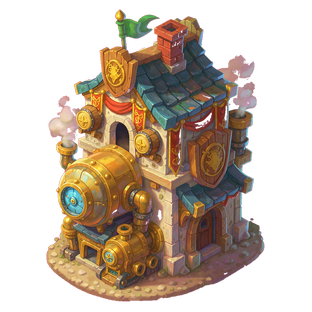
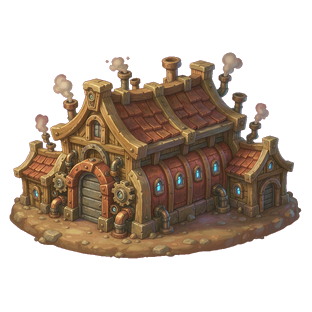
feat(art): 兵营V6暗色与工厂形态修订（幽暗墓地/红黑哥特/一层式蒸汽工厂，抠图脚本支持深紫底）

diff --git a/tools/expand-barracks-v6-prompts.py b/tools/expand-barracks-v6-prompts.py
@@ -1,0 +1,132 @@
+#!/usr/bin/env python3
+# -*- coding: utf-8 -*-
+"""展开兵营 V6 的完整 prompt（3 张）。
+
+用户 2026-11-26 追加指令：
+  31 死灵法师 -> 墓地还不够阴深（要更幽暗，但保留墓地形态）
+  32 吸血鬼   -> 去除白色，改为红黑建筑
+  33 蒸汽坦克 -> 改为一层式蒸汽朋克工厂表现
+
+画风策略调整：V4/V5 的"提亮暗部"不再适用，改用
+「饱和暗色 + 彩色轮廓光 + 发光点缀」，保证阴深但可读，
+同时保留圆润厚涂 / 无黑线稿 / 卡通质感（不回到早期线稿淡彩脏黑）。
+风格锚点从 V2 方案文档逐字抽取。
+用法: python3 tools/expand-barracks-v6-prompts.py
+输出: .workbuddy/art-staging/western-redraw-v6/prompts.json
+"""
+import json
+import re
+from pathlib import Path
+
+ROOT = Path(__file__).resolve().parent.parent
+DOC = (ROOT / "docs/art/ART-BARRACKS-V2-NONBUILDING-REDRAW.md").read_text(encoding="utf-8")
+
+
+def block(after):
+    i = DOC.index(after)
+    return re.search(r"```\n(.*?)\n```", DOC[i:], re.S).group(1).strip()
+
+
+SEG1 = block("### 段 1 ·")
+SEG4 = block("### 段 4")
+NEG_BASE = block("### Negative prompt（B/C/D 档")
+NEG_AB = block("### Negative prompt · A/B 档")
+
+# V6 画风锚：暗色角色专用——饱和暗色但可读，禁止纯黑糊与黑描边
+STYLE_DARK = (
+    " CRITICAL STYLE MATCH — this must look like the SAME asset family as the rest of the barracks: "
+    "painterly thick-rounded brushwork, plump soft forms, smooth color transitions, chunky simplified shapes, "
+    "clean glossy candy-like highlights. NO black ink outlines, NO line art, NO sketch lines, NO flat cel shading, "
+    "NO black contour strokes around shapes, NO fine detailed linework. "
+    "This is a deliberately DARK and moody building, but darkness must come from RICH SATURATED COLORS "
+    "(deep violet, indigo, dark teal, crimson, oxblood, dark burgundy), NEVER flat pure black, NEVER a muddy "
+    "black mass. Keep every structure readable through colored rim light, glowing accents and a clear value "
+    "hierarchy: dark walls, mid-tone trims, BRIGHT magical or warm light sources. "
+    "Add cool glowing details (emerald green, ghostly blue, crimson) as focal points. "
+    "Keep it soft, round and cartoon-like even when dark."
+)
+
+BUILD_FRAME = (
+    "Square 1:1 canvas, building centered slightly low, full building including the elliptical stone base "
+    "fills about 82 percent of canvas width, 8 to 10 percent clean margin on all sides, no cropping, no "
+    "perspective drift, flat even framing. The single signature object stays fully inside the frame and "
+    "is never hidden by flags, banners or roof decorations."
+)
+
+NEG_EXTRA = (
+    "black outlines, line art, ink sketch, black contour, harsh dark edges, cel shading, flat shading, "
+    "pure black shadows, muddy dark mass, grayscale, monochrome, white walls, cream walls, "
+    "realistic texture, fine linework"
+)
+
+# name, BUILDING, MAT, ACC, SIG, PROP, SIGPCT, SIGW, EXTRA
+DATA = {
+    "31": (
+        "死灵法师-幽暗墓地(阴深化)",
+        "a deeply shadowed gothic necromancer GRAVEYARD landmark: a cluster of crooked small pointed chapels "
+        "and broken arches surrounded by a dense field of tilted tombstones and grave markers, ornate dark iron "
+        "fence around the cemetery, a skull carved into the central arch, low ground fog curling between the "
+        "graves, a green magical flame glowing above the tallest spire",
+        "dark violet stone, moss-covered grey stone and black iron fence",
+        "deep indigo and emerald green glow",
+        "the dense field of tilted tombstones behind a dark iron fence with an emerald green flame spire above",
+        "ghostly blue wisps, skull carvings, crooked crosses and ground fog", 30, 34,
+        " The graveyard must feel GLOOMY and EERIE: dark violet and mossy grey stone, heavy indigo shadows, "
+        "cold green and ghost-blue magical light. Walls may be dark but MUST stay saturated violet or indigo "
+        "and readable — never pure black. Keep the many visible tombstones and the iron fence. "
+        "NO white walls, NO cream stone, NO bright sunny stone."),
+    "32": (
+        "吸血鬼-红黑哥特城堡(去白改色)",
+        "a gothic vampire castle with deep oxblood red and dark burgundy walls, black obsidian roofs and "
+        "thin black iron spires, pointed arch windows glowing hot crimson from within, a small black bat "
+        "perched on the tallest tower, jagged dark stone base",
+        "oxblood red stone, black obsidian roof and black iron",
+        "crimson red and dark violet",
+        "the tallest black iron gothic spire with a small bat silhouetted against red window glow",
+        "glowing crimson arched windows, black iron fences and rose-red ornaments", 35, 18,
+        " ABSOLUTELY NO white, NO cream, NO pale rose walls — the castle must be RED AND BLACK: "
+        "oxblood / burgundy walls with black roofs and black ironwork. Crimson glowing windows keep it readable. "
+        "Colors stay rich and saturated, never a flat black mass."),
+    "33": (
+        "蒸汽坦克-一层式蒸汽朋克工厂",
+        "a SINGLE-STOREY steampunk factory building: a wide low industrial workshop hall with a broad riveted "
+        "red-copper and brass facade, a large rolling factory door, exposed gears and piping on the walls, "
+        "a cluster of short chimneys puffing soft white steam, glowing blue pressure gauges and small arched "
+        "industrial windows, standing on an elliptical stone display base",
+        "red copper, polished brass, iron and timber",
+        "copper red and sky blue gauge glow",
+        "the wide riveted copper-and-brass factory facade with a huge rolling door and exposed gears",
+        "steam puffs, pressure gauges, pipes and short smokestacks", 38, 34,
+        " This must be a ONE-STOREY factory hall: wide, low and horizontally spread, clearly an industrial "
+        "workshop building. NO second floor, NO upper tower, NO tall multi-storey structure, NO cottage roof, "
+        "NO residential windows and NO ordinary house door. Keep it steampunk with gears, rivets, copper, "
+        "brass, pipes, gauges and steam."),
+}
+
+
+def main():
+    out = {}
+    for n, (name, subj, mat, acc, sig, prop, pct, w, extra) in DATA.items():
+        body = (
+            "A {BUILDING} for a fantasy unit barracks. Constructed from {MAT}, with {ACC} as the dominant "
+            "accent color, echoing the unit character art. One dominant oversized signature object dominates "
+            "the scene: {SIG}. This single signature object must occupy at least {SIGPCT} percent of the building "
+            "height and at least {SIGW} percent of the canvas width; it must read clearly when scaled down to "
+            "10 percent. All other details, including {PROP}, are secondary and quieter. The architecture must "
+            "clearly express this unit role and be unmistakably Western fantasy medieval, not Eastern."
+        ).format(BUILDING=subj, MAT=mat, ACC=acc, SIG=sig, PROP=prop, SIGPCT=pct, SIGW=w)
+        neg = NEG_BASE + ", " + NEG_AB + ", " + NEG_EXTRA
+        prompt = (SEG1 + "\n\n" + body + extra + STYLE_DARK + "\n\n" + BUILD_FRAME +
+                  "\n\n" + SEG4 + "\n\nNegative prompt: " + neg)
+        out[n] = {"name": name, "prompt": prompt}
+
+    dst = ROOT / ".workbuddy/art-staging/western-redraw-v6/prompts.json"
+    dst.parent.mkdir(parents=True, exist_ok=True)
+    dst.write_text(json.dumps(out, ensure_ascii=False, indent=2), encoding="utf-8")
+    print(f"wrote {len(out)} prompts -> {dst}")
+    for n, v in out.items():
+        print(n, v["name"], len(v["prompt"]))
+
+
+if __name__ == "__main__":
+    main()

diff --git a/tools/remove-bg-artgen-magenta.py b/tools/remove-bg-artgen-magenta.py
@@ -20,10 +20,21 @@ from collections import deque
 from PIL import Image, ImageFilter
 
 
-def is_magenta_bg(r, g, b, bg, tol):
-    """暗玫红背景：接近采样色，且满足红显著高于绿的色相约束。"""
+def is_magenta_bg(r, g, b, bg, tol, mode='magenta'):
+    """背景判定。
+
+    magenta: 暗玫红底 (约 142,54,73)，红显著高于绿。
+    purple:  深紫底 (约 65,32,75)，蓝略高于红、明显高于绿；
+             用于红黑建筑出图（ImageGen 会把纯品红提示出成深紫底）。
+             主体暗红墙 r>b、黑色屋顶三通道都低，都不会被误判。
+    """
     near = abs(r - bg[0]) < tol and abs(g - bg[1]) < tol and abs(b - bg[2]) < tol
-    magenta_hue = r > g + 45 and r > 100 and b > g
+    if mode == 'purple':
+        purple_hue = b > r + 6 and b > g + 24 and b > 45
+        return near and purple_hue
+    # r 下限相对采样背景：暗玫红可能深到 r≈100（如阴深墓地批次），
+    # 固定 r>100 会把这类背景卡住导致 flood fill 扩散失败。
+    magenta_hue = r > g + 45 and r > bg[0] - 40 and b > g
     return near and magenta_hue
 
 
@@ -38,7 +49,7 @@ def is_watermark(r, g, b, bg):
     return light or bright
 
 
-def remove_bg(src, dst, target=312, tol=24, closed=False):
+def remove_bg(src, dst, target=312, tol=24, closed=False, mode='magenta'):
     im = Image.open(src).convert('RGB')
     w, h = im.size
     px = im.load()
@@ -57,7 +68,10 @@ def remove_bg(src, dst, target=312, tol=24, closed=False):
             row = y*w
             for x in range(w):
                 r, g, b = px[x, y]
-                if r > 125 and r - g > 50 and b > g and b > 60:
+                if mode == 'purple':
+                    if b > r + 6 and b > g + 24 and b > 45:
+                        closed_mask[row+x] = 1
+                elif r > 125 and r - g > 50 and b > g and b > 60:
                     closed_mask[row+x] = 1
 
     # 2) 四边 flood fill 连通背景
@@ -66,13 +80,13 @@ def remove_bg(src, dst, target=312, tol=24, closed=False):
     for x in range(w):
         for y in (0, h-1):
             i = y*w+x
-            if not visited[i] and is_magenta_bg(*px[x, y], bg, tol):
+            if not visited[i] and is_magenta_bg(*px[x, y], bg, tol, mode):
                 visited[i] = 1
                 q.append((x, y))
     for y in range(h):
         for x in (0, w-1):
             i = y*w+x
-            if not visited[i] and is_magenta_bg(*px[x, y], bg, tol):
+            if not visited[i] and is_magenta_bg(*px[x, y], bg, tol, mode):
                 visited[i] = 1
                 q.append((x, y))
     while q:
@@ -80,7 +94,7 @@ def remove_bg(src, dst, target=312, tol=24, closed=False):
         for nx, ny in ((x+1, y), (x-1, y), (x, y+1), (x, y-1)):
             if 0 <= nx < w and 0 <= ny < h:
                 i = ny*w+nx
-                if not visited[i] and is_magenta_bg(*px[nx, ny], bg, tol):
+                if not visited[i] and is_magenta_bg(*px[nx, ny], bg, tol, mode):
                     visited[i] = 1
                     q.append((nx, ny))
 
@@ -93,7 +107,7 @@ def remove_bg(src, dst, target=312, tol=24, closed=False):
         row = y*w
         for x in range(x0, w):
             r, g, b = px[x, y]
-            if not is_magenta_bg(r, g, b, bg, 30):
+            if not is_magenta_bg(r, g, b, bg, 30, mode):
                 wm_mask[row+x] = 1
 
     # 4) alpha
@@ -130,6 +144,8 @@ if __name__ == '__main__':
         sys.exit(1)
     t = int(sys.argv[3]) if len(sys.argv) > 3 else 312
     tol = int(sys.argv[4]) if len(sys.argv) > 4 else 24
-    closed = len(sys.argv) > 5 and sys.argv[5] == '--closed'
-    remove_bg(sys.argv[1], sys.argv[2], t, tol, closed)
-    print(f'{sys.argv[1]} -> {sys.argv[2]} (tol={tol}, closed={closed})')
+    opts = [a for a in sys.argv[5:] if a.startswith('--')]
+    closed = '--closed' in opts
+    mode = 'purple' if '--purple' in opts else 'magenta'
+    remove_bg(sys.argv[1], sys.argv[2], t, tol, closed, mode)
+    print(f'{sys.argv[1]} -> {sys.argv[2]} (tol={tol}, closed={closed}, mode={mode})')
